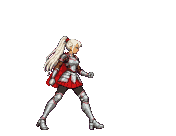
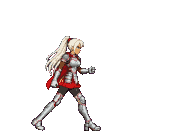
기사 걷기 동작 다시 그림(보폭 짧게) + 이동 속도 15% 빠르게
- 기사 남/여 걷기 8장 새로 그림: 디딤→낮춤→지나감→올라감 순서의 자연스러운 갑옷 걸음, 검 든 손은 앞에 두고 반대 팔만 흔들고 망토가 따라옴
- 기사 보폭을 새 그림에서 잰 값으로 따로 둠: 남 112→84, 여 96→100 (여자 예전 그림은 실제 발 이동이 약 116이라 발이 미끄러졌음, 새 그림은 그보다 짧음)
- 기사 걷기 손 위치(검 위치) 새 그림에 맞춰 다시 잼
- 플레이어 이동 속도 좌우 90→104, 위아래 55→63 (견습·기사 모두)
- 늑대는 계속 플레이어보다 빠르게: 100→115, 55→63, 달리기 그림 속도 12→14

Changed region(s): [[0.1705, 0.2647, 0.5966, 0.9706]]

diff --git a/js/config.js b/js/config.js
@@ -37,7 +37,7 @@
   var MOVES = {
     // 남자: 힘 있는 검술. 1타 대각선 내려베기 → 2타 아래에서 위로 되받아 베기 → 3타 크게 들어 내리찍기
     male: {
-      stride: 112, attack1Prefix: 'attack_', attack1Count: 5, attack2Count: 5, attack3Count: 6,
+      stride: 112, knightStride: 84, attack1Prefix: 'attack_', attack1Count: 5, attack2Count: 5, attack3Count: 6,
       combo: [
         { anim: 'attack1', f: [0, 1, 2, 3, 4], d: [40, 70, 35, 90, 90], active: [2, 3], cancel: 3, lunge: 4,
           reach: { x0: 8, x1: 92, yTop: -100, yBot: -18 },
@@ -55,7 +55,7 @@
     },
     // 여자: 빠르고 가볍고 우아한 검술. 1타 앞으로 찌르기 → 2타 한 바퀴 돌며 가로 베기 → 3타 낮게 파고들며 X자 베기(두 번 판정)
     female: {
-      stride: 96, attack1Prefix: 'attack1_', attack1Count: 4, attack2Count: 5, attack3Count: 6,
+      stride: 96, knightStride: 100, attack1Prefix: 'attack1_', attack1Count: 4, attack2Count: 5, attack3Count: 6,
       combo: [
         { anim: 'attack1', f: [0, 1, 2, 3], d: [45, 40, 80, 70], active: [1, 2], cancel: 3, lunge: 6,
           reach: { x0: 20, x1: 108, yTop: -82, yBot: -44 },
@@ -146,9 +146,10 @@
         idle:    { frames: seq(p + 'idle_', 4),   fps: 6,  loop: true },
         // 걷기: 시간 대신 「걸은 거리」로 그림을 넘긴다. stride = 8장 한 바퀴(두 걸음) 동안 가는 도트 수.
         //   그림 속 보폭에 맞춘 값이라 발이 바닥에서 미끄러지지 않는다. 캐릭터마다 보폭이 달라 MOVES 에 따로 둔다
-        //   (남 112, 여 96 → 좌우 90도트/초에서 약 6.4 / 7.5장/초).
+        //   견습 남 112, 여 96 / 기사 옷은 걷기 그림을 따로 그려서(2026-11-03, 보폭 짧은 갑옷 걸음) knightStride 남 84, 여 100
+        //   (그림 속 디딘 발이 한 장마다 뒤로 가는 거리 × 8 을 잰 값. 좌우 104도트/초에서 견습 약 7.4 / 8.7장/초, 기사 약 9.9 / 8.3장/초).
         //   depthStrideMul = 위아래(안쪽) 이동일 때 거리를 이만큼 크게 쳐서, 느린 위아래 이동에도 다리가 자연스럽게 움직이게.
-        walk:    { frames: seq(p + 'walk_', 8),   fps: 12, loop: true, stride: M.stride, depthStrideMul: 1.6 },
+        walk:    { frames: seq(p + 'walk_', 8),   fps: 12, loop: true, stride: outfit === 'knight' ? M.knightStride : M.stride, depthStrideMul: 1.6 },
         attack1: { frames: seq(p + M.attack1Prefix, M.attack1Count), fps: 14, loop: false },
         attack2: { frames: seq(p + 'attack2_', M.attack2Count), fps: 14, loop: false },
         attack3: { frames: seq(p + 'attack3_', M.attack3Count), fps: 14, loop: false },
@@ -244,8 +245,8 @@
 
     // ---------- 움직임 ----------
     player: {
-      speedX: 90,           // 1초에 도트 몇 칸 (좌우)
-      speedY: 55,           // 위아래 (안쪽/바깥쪽)
+      speedX: 104,          // 1초에 도트 몇 칸 (좌우)  (2026-11-03: 90 → 104, 약 15% 빠르게)
+      speedY: 63,           // 위아래 (안쪽/바깥쪽)  (55 → 63)
       startX: 200,
       hitbox: { x0: 8, x1: 92, yTop: -100, yBot: -18, depth: 14 } // 발 기준, 오른쪽 볼 때
     },
@@ -374,7 +375,7 @@
       wolf: {
         label: '늑대', frameW: 208, frameH: 112, pivot: { x: 104, y: 106 },
         anims: enemyAnims('wolf', {
-          idle: [4, 6, true], run: [6, 12, true],
+          idle: [4, 6, true], run: [6, 14, true],   // run fps 12 → 14: 달리기 속도를 올린 만큼 다리도 빠르게
           attack: [5, 12, false, [1, 1, 1, 2, 3, 3, 4, 5]],   // 1 웅크림(예고) · 2 도약 · 3 물기 · 4 착지 · 5 복귀
           hit: [3, 10, false, [1, 2, 2, 3]],
           hit2: [3, 10, false, [1, 1, 2, 2, 3]],
@@ -384,7 +385,8 @@
         }),
         walkAnim: 'run',
         down: { slide: 70, lyingFrames: [3, 4] },
-        hp: 48, speedX: 100, speedY: 55, radius: 26, height: 66,
+        // 늑대는 플레이어보다 빨라야 함(빠른 적): 플레이어 90→104 에 맞춰 100→115, 55→63 (2026-11-03)
+        hp: 48, speedX: 115, speedY: 63, radius: 26, height: 66,
         hurtbox: { x0: -50, x1: 51, yTop: -66, yBot: 0 },
         engage: 84, hover: [150, 200], range: [55, 112], alignY: 8, cooldown: [1300, 2300], firstCooldown: [300, 1200],
         retreatMs: 900,           // 물고 난 뒤 뒤로 빠지는 시간 (치고 빠지기)
